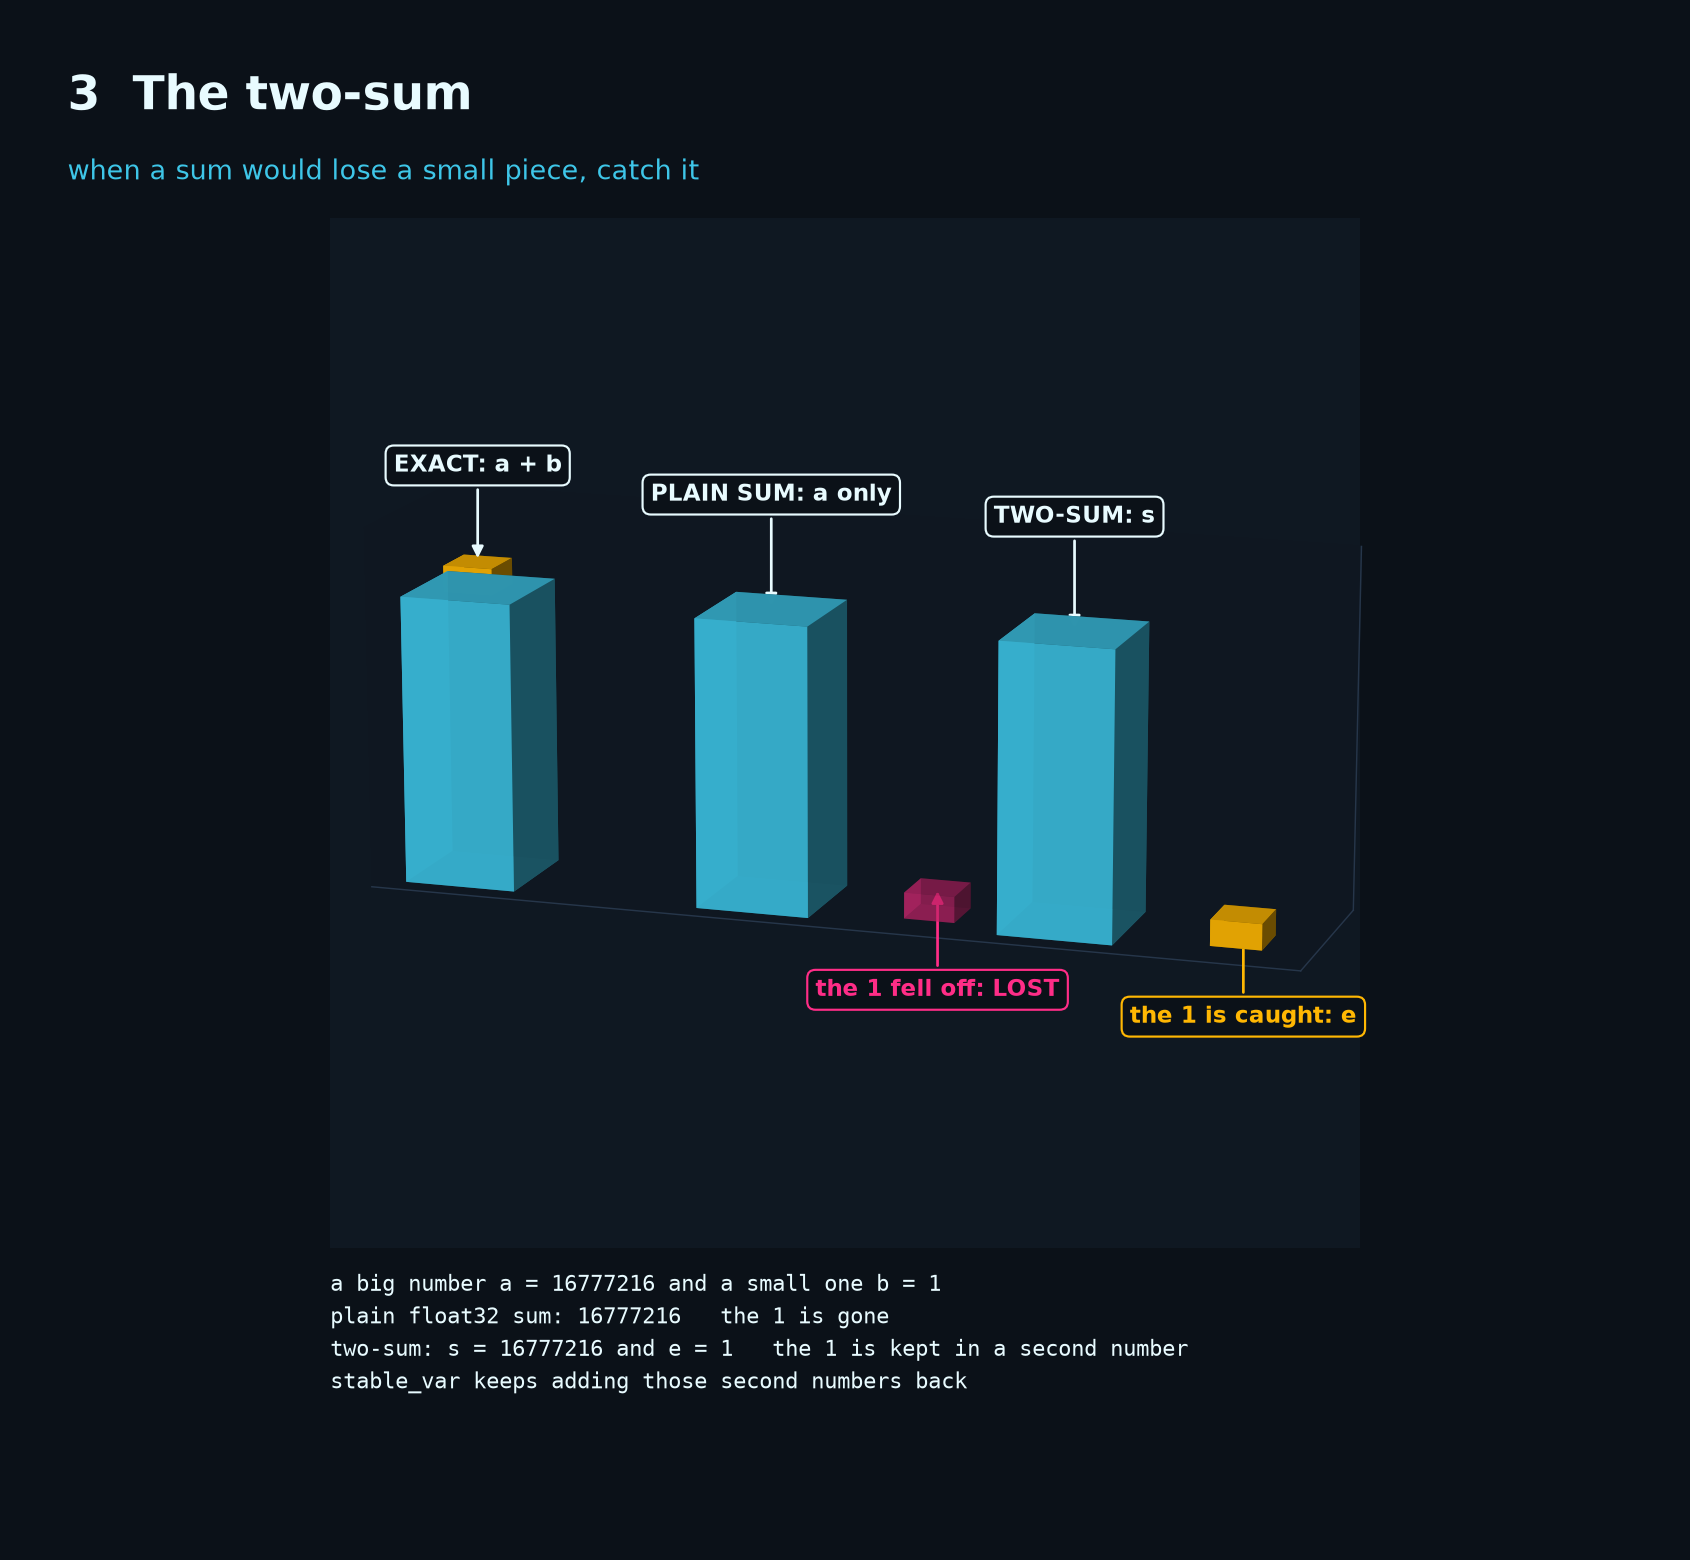
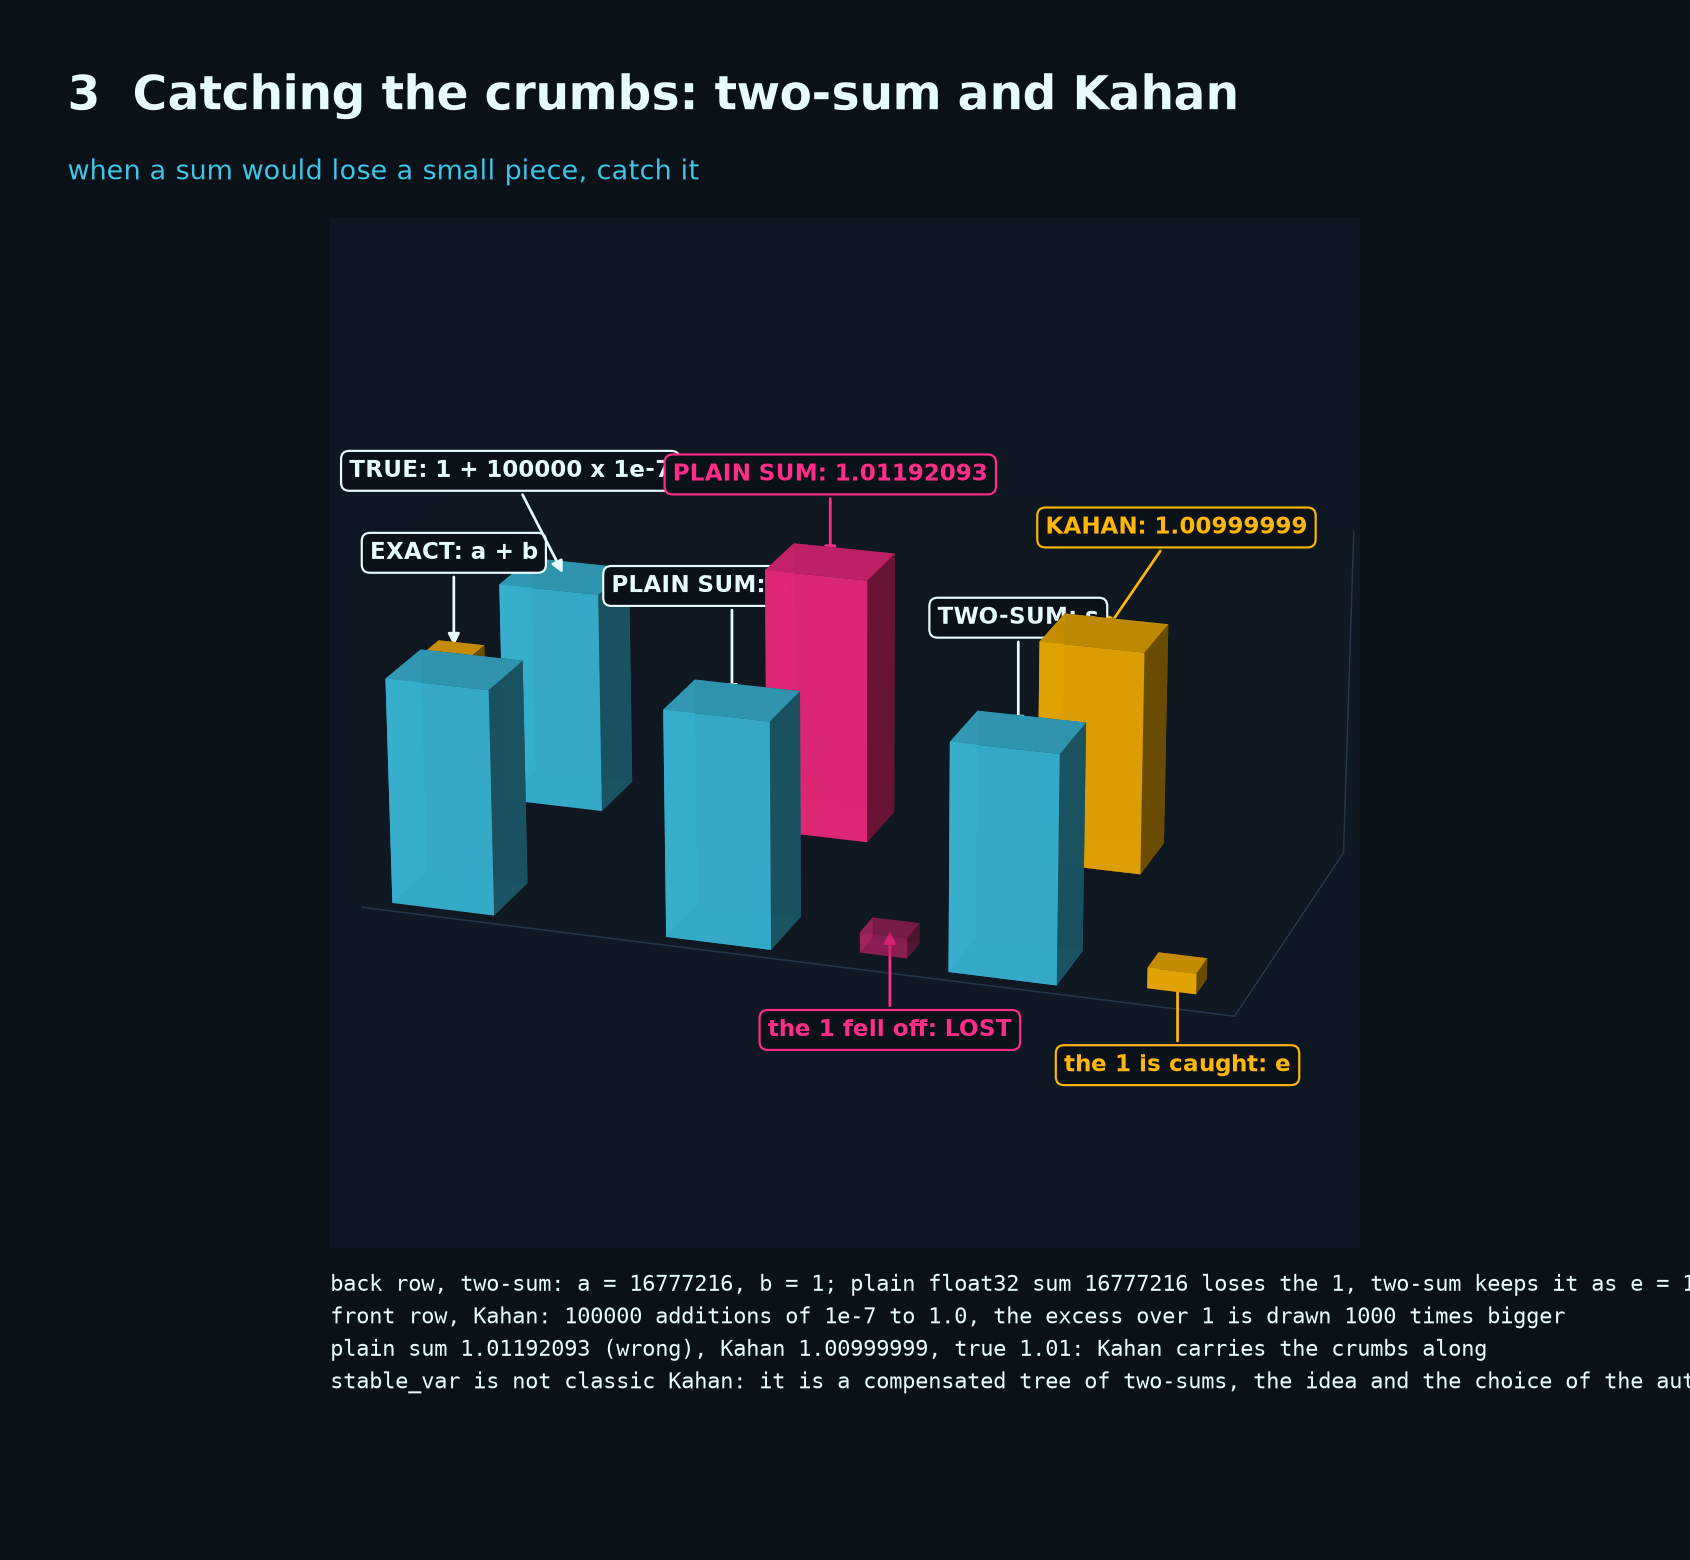
docs(stable_var): the four images with their explanations, Kahan and the compensated tree in the third; the sentence on deep networks removed

diff --git a/docs/assets/stable_variance/make_explained.py b/docs/assets/stable_variance/make_explained.py
@@ -184,27 +184,37 @@ def panel_twosum(ax):
     ax.bar3d(4.0, 0.2, 0.0, 0.4, 0.4, 0.9, color=PINK, alpha=0.45)
     ax.bar3d(4.8, 0.0, 0.0, 0.9, 0.9, 10.0, color=CYAN, alpha=0.95)
     ax.bar3d(6.4, 0.2, 0.0, 0.4, 0.4, 0.9, color=GOLD, alpha=1.0)
+    ax.bar3d(0.0, 3.0, 0.0, 0.9, 0.9, 10.0, color=CYAN, alpha=0.95)
+    ax.bar3d(2.4, 3.0, 0.0, 0.9, 0.9, 11.92, color=PINK, alpha=0.95)
+    ax.bar3d(4.8, 3.0, 0.0, 0.9, 0.9, 10.0, color=GOLD, alpha=0.95)
     ax.set_xlim(-0.2, 7.2)
-    ax.set_ylim(-0.2, 1.4)
-    ax.set_zlim(0, 12.5)
+    ax.set_ylim(-0.2, 4.2)
+    ax.set_zlim(0, 14.5)
     ax.set_xticks([])
     ax.set_yticks([])
     ax.set_zticks([])
-    ax.view_init(elev=14, azim=-72)
-    ax.set_box_aspect((2.6, 0.6, 1.0), zoom=1.0)
+    ax.view_init(elev=20, azim=-72)
+    ax.set_box_aspect((2.6, 1.3, 1.0), zoom=1.0)
     label(ax, 0.45, 0.45, 10.9, "EXACT: a + b", INK, dy=50)
     label(ax, 2.85, 0.45, 10.0, "PLAIN SUM: a only", INK, dy=60)
     label(ax, 4.2, 0.4, 0.9, "the 1 fell off: LOST", PINK, dx=0, dy=-60)
     label(ax, 5.25, 0.45, 10.0, "TWO-SUM: s", INK, dy=60)
     label(ax, 6.6, 0.4, 0.9, "the 1 is caught: e", GOLD, dx=0, dy=-60)
+    label(ax, 0.45, 3.45, 10.0, "TRUE: 1 + 100000 x 1e-7", INK, dx=-30, dy=55)
+    label(ax, 2.85, 3.45, 11.92, "PLAIN SUM: 1.01192093", PINK, dx=0, dy=45)
+    label(ax, 5.25, 3.45, 10.0, "KAHAN: 1.00999999", GOLD, dx=40, dy=55)
     note(
         ax,
-        f"a big number a = {int(a)} and a small one b = {int(b)}{NL}"
-        f"plain float32 sum: {int(plain)}   the {int(b)} is gone{NL}"
-        f"two-sum: s = {int(s)} and e = {int(e)}   the {int(e)} is kept in a second number{NL}"
-        f"stable_var keeps adding those second numbers back",
+        f"back row, two-sum: a = {int(a)}, b = {int(b)}; plain float32 sum {int(plain)} loses the {int(b)}, two-sum keeps it as e = {int(e)}{NL}"
+        f"front row, Kahan: 100000 additions of 1e-7 to 1.0, the excess over 1 is drawn 1000 times bigger{NL}"
+        f"plain sum 1.01192093 (wrong), Kahan 1.00999999, true 1.01: Kahan carries the crumbs along{NL}"
+        f"stable_var is not classic Kahan: it is a compensated tree of two-sums, the idea and the choice of the author",
     )
-    pane(ax, "3  The two-sum", "when a sum would lose a small piece, catch it")
+    pane(
+        ax,
+        "3  Catching the crumbs: two-sum and Kahan",
+        "when a sum would lose a small piece, catch it",
+    )
 
 
 def panel_depth(ax):

diff --git a/docs/stats/stable_variance.md b/docs/stats/stable_variance.md
@@ -10,7 +10,6 @@ It is useful wherever there is a big number with small wiggles around it, in any
 - **Robots and drones:** a joint resting around 1,000 that vibrates by 0.01. The usual formula is wrong by about 630 times. `stable_var` gives the right number.
 - **Deep neural networks in `float32`:** a signal with a big base value that goes through many layers, one after the other. With the usual layer the gradient is wrong by up to about 20 out of 100 after 1024 layers; with `stable_var` it stays below 1 in 10,000 in the same test.
 
-So it is not only for deep networks: it works in finance, in robots and in deep networks every time you have "big numbers plus small wiggles" in `float32`.
 
 How do I compute a variance in float32 that is exactly zero on identical
 values?
@@ -25,131 +24,11 @@ values?
 
 ![Three pillars: the exact sum, the plain float32 sum that loses the 1, and the two-sum that keeps it in a second number](../assets/stable_variance/stable_var_3_twosum.png)
 
-**3. The two-sum.** Adding a small number to a big one loses the small one: with a = 16777216 and b = 1, the plain `float32` sum is 16777216 and the 1 is gone. The two-sum returns the sum s = 16777216 and also the error e = 1, so nothing is lost; `stable_var` adds these second numbers back when it sums.
+**3. Catching the crumbs: two-sum and Kahan.** Adding a small number to a big one loses the small one: with a = 16777216 and b = 1, the plain `float32` sum is 16777216 and the 1 is gone. The two-sum returns the sum s = 16777216 and also the error e = 1, so nothing is lost. Adding 100000 numbers of 1e-7 to 1.0 in `float32` gives 1.01192093 with the plain sum and 1.00999999 with Kahan's sum (the true value is 1.01). `stable_var` is not classic Kahan: it is a compensated tree of two-sums, the idea and the choice of the author, which keeps every crumb and runs on a GPU.
 
 ![A three-dimensional surface of the gradient error of stacked layers on a GPU: the usual layer rises like a mountain to 21 percent, the layer with stable_var is a flat floor below 0.006 percent](../assets/stable_variance/stable_var_4_depth.png)
 
 **4. The depth.** The gradient of a stack of normalised layers on a GPU, in `float32`, for 11 depths from 1 to 1024 layers and 6 values of the offset over the spread, 66 stacks in all. The usual layer is wrong by up to 21 % at 1024 layers; with `stable_var` the gradient is wrong by less than 0.006 % in every stack. The largest gain is at 8 layers, where it is 17,447 times closer to the truth. A step with `stable_var` takes between 0.76 and 3.1 times as long as one with the usual layer (median 1.4).
-
-## A deep learning example: the gradient of a normalisation layer
-
-A normalisation layer divides each row of activations by the square root of its variance. When the activations of a row sit around a large offset with a small spread, the variance and the subtraction of the mean in `float32` lose the digits of the spread, and the gradient that goes back to the earlier layers inherits the error. The test takes 64 rows of 1024 values around 1000 with a spread of 0.004 and applies three layers: the usual one, with `jnp.mean` and `jnp.var`; one that takes only the variance from `stable_var`; and one that takes the variance from `stable_var` and subtracts the mean on the data shifted by the first element, `(x - x[0]) - mean(x - x[0])`. The output and the gradient (by `jax.grad`) of each are compared with the same layer in float64:
-
-```python
-import jax
-import jax.numpy as jnp
-import numpy as np
-from dense_armor.core.signals.stats.stable import stable_var
-
-EPS = 1e-6
-
-
-def usual(x):
-    mean = jnp.mean(x, axis=-1, keepdims=True)
-    var = jnp.var(x, axis=-1, keepdims=True)
-    return (x - mean) / jnp.sqrt(var + EPS)
-
-
-def stable_variance_only(x):
-    mean = jnp.mean(x, axis=-1, keepdims=True)
-    var = stable_var(x, axis=-1, keepdims=True)
-    return (x - mean) / jnp.sqrt(var + EPS)
-
-
-def stable(x):
-    y = x - x[..., :1]
-    d = y - jnp.mean(y, axis=-1, keepdims=True)
-    return d / jnp.sqrt(stable_var(x, axis=-1, keepdims=True) + EPS)
-
-
-rng = np.random.default_rng(0)
-x = rng.normal(1000.0, 0.004, (64, 1024)).astype(np.float32)
-g = rng.normal(0.0, 1.0, (64, 1024)).astype(np.float32)
-x64, g64 = x.astype(np.float64), g.astype(np.float64)
-inv = 1.0 / np.sqrt(x64.var(-1, keepdims=True) + EPS)
-xh = (x64 - x64.mean(-1, keepdims=True)) * inv
-dx = inv * (g64 - g64.mean(-1, keepdims=True) - xh * (g64 * xh).mean(-1, keepdims=True))
-for name, layer in (
-    ("usual", usual),
-    ("stable variance only", stable_variance_only),
-    ("stable", stable),
-):
-    out = np.asarray(layer(jnp.asarray(x)), np.float64)
-    grad = np.asarray(jax.grad(lambda a: jnp.sum(g * layer(a)))(jnp.asarray(x)), np.float64)
-    print(f"{name:22s} output {np.abs(out - xh).max():.1e}  gradient {np.abs(grad - dx).max():.1e}")
-print(f"largest true gradient {np.abs(dx).max():.0f}")
-```
-
-```
-usual                  output 1.9e-02  gradient 8.8e-01
-stable variance only   output 1.9e-02  gradient 7.8e-01
-stable                 output 3.5e-07  gradient 5.1e-03
-largest true gradient 1122
-```
-
-The usual layer is wrong in the output by `1.9e-02` and in the gradient by `0.88`, on a largest true gradient of 1122. Taking only the variance from `stable_var` changes nothing (`1.9e-02` and `0.78`): the digits are lost in the subtraction `x - mean`, not in the variance. When the layer also subtracts the mean on the shifted data, the output error falls to `3.5e-07` and the gradient error to `5.1e-03`, that is `4.5e-06` of the largest gradient against `7.8e-04` for the usual layer: about 170 times smaller. `stable_var` can be differentiated by `jax.grad`, and no gradient in this test is `NaN`.
-
-This is one layer, in one setting, in `float32`; it is not a training run, and the page does not measure the accuracy of a trained network.
-
-### How many layers
-
-The same layer was stacked, `L` times: each layer is `x = 1000 + 0.004 * tanh(LN(x) @ W)`, with `W` orthogonal (times 0.7), 128 rows of 512 values, so that every layer receives an offset of 1000 and a spread of about 0.004. The test is `benchmarks/stable_variance_depth.py`, run on a Kaggle GPU with JAX 0.11.1 (the matrix products at the highest precision, one of the two visible devices in use). For each depth the gradient of the output with respect to the input is computed in `float32` by `jax.grad` and, as a reference, in float64 by replaying the backward pass on the same `float32` inputs. The table gives the relative error of the gradient and the time of one forward and backward step (median of 11 runs):
-
-![The relative error of the gradient and the time of one forward and backward step against the number of layers, for the usual layer normalisation and for the one with stable_var: the usual layer is at 0.4 % with one layer, above 1 % from 4 layers and at 20 % with 1024; with stable_var the error goes from 3e-07 to 6e-05; the step takes between 1.2 and 3 times as long.](../assets/stable_variance/depth_gradient.png)
-
-| layers | gradient error, usual layer | gradient error, `stable_var` | step time, usual | step time, `stable_var` | time ratio |
-|---|---|---|---|---|---|
-| 1 | 3.66e-03 | 3.45e-07 | 0.31 ms | 0.37 ms | 1.20 |
-| 2 | 7.87e-03 | 4.88e-07 | 0.57 ms | 0.74 ms | 1.29 |
-| 4 | 1.11e-02 | 6.95e-07 | 0.96 ms | 1.37 ms | 1.43 |
-| 8 | 1.77e-02 | 1.04e-06 | 1.71 ms | 2.46 ms | 1.44 |
-| 16 | 2.54e-02 | 1.62e-06 | 3.15 ms | 4.56 ms | 1.45 |
-| 32 | 3.74e-02 | 2.65e-06 | 4.36 ms | 8.83 ms | 2.03 |
-| 64 | 5.35e-02 | 4.54e-06 | 8.05 ms | 17.42 ms | 2.17 |
-| 128 | 7.58e-02 | 8.33e-06 | 11.71 ms | 34.56 ms | 2.95 |
-| 256 | 1.06e-01 | 1.56e-05 | 23.34 ms | 35.78 ms | 1.53 |
-| 512 | 1.50e-01 | 3.06e-05 | 47.30 ms | 63.16 ms | 1.34 |
-| 1024 | 2.04e-01 | 5.91e-05 | 95.30 ms | 127.99 ms | 1.34 |
-
-With the usual layer the gradient is wrong by 0.37 % in a single layer, by 1.1 % at 4 layers and by 20 % at 1024. With `stable_var` it is wrong by 3.5e-07 in a single layer and by 5.9e-05 at 1024: between 3450 and 16900 times smaller at every depth tested. The largest error of the output of one normalisation, against float64 on the same input, is between 1.9e-02 and 5.3e-02 for the usual layer and 4.2e-07 for the layer with `stable_var`, at every depth. No gradient is `NaN` or infinite in either variant.
-
-If a gradient error of 1 % is the most that can be accepted, the usual layer reaches it at 4 layers (1.1 %; at 2 layers it is 0.79 %); with `stable_var` the error is still 5.9e-05 at 1024 layers, the deepest tested. So the number of layers that can be built is at least 256 times larger, 1024 against 4, and this test did not find the limit with `stable_var`.
-
-The price is time. A step with the layer that uses `stable_var` takes between 1.2 and 3.0 times as long as one with the usual layer on this GPU, and 1.34 times at 1024 layers (128.0 ms against 95.3 ms). The ratio at 128 layers (2.95) is out of line with its neighbours (1.53 at 256), and was not investigated. For activations with a large offset and a small spread, where the usual layer gives gradients that are wrong by 1 % to 20 %, a step that takes at most three times as long and a gradient that is 3450 to 16900 times more accurate is a good price; for activations without a large offset this test says nothing, because it was not run.
-
-This is one synthetic stack, one GPU session and one size (128 rows of 512 values). In this stack the gradient grows with the depth, up to about 1e15 at 1024 layers, and stays finite in `float32`; it is not a trained network, and the page does not measure the accuracy of one.
-
-## Gamestory
-
-Saturday afternoon at the market. The young shopkeeper and his assistant are selling a super-rare series of collectible action figures that all cost around 1,000 euros (one costs 1000.00, one 1000.01, one 1000.02).
-
-At the end of the day they want to know how much those few cents varied from one figure to another. But there is a problem: to do the math super fast, the assistant uses a pocket calculator with a short screen (called float32), which can hold at most 7 digits on display!
-
-If the assistant uses the normal textbook formula (mean(x**2) - mean(x)**2), a disaster happens: squaring 1000 creates giant numbers (1,000,000), the short screen cuts off all the cents to fit the zeros, and at the end it spits out a crazy negative number (-196608)! To save the cents from the short screen, the assistant uses the stable_var trick, made of four clever moves:
-
-- **1. Removing the giant weight at the start (y = x - x[0]):** Before doing any math, the assistant takes the price of the first figure (1000.00) and subtracts it from all the others. Only the cents of difference remain on the sheet (0.00, 0.01, 0.02)! That way the short screen no longer wastes space writing the thousand euros that are the same for everyone.
-- **2. Centering the cents (m):** Now he takes the average of only those tiny cents (m): this way every tiny rounding stays super small and never blows up.
-- **3. Catching the crumbs that fall off (TwoSum and kahan):** When adding up lots of tiny cents one after another, on a short-screen calculator some crumbs risk falling off the edge. The assistant uses a special trick (TwoSum and kahan) that catches every single crumb of remainder and puts it back into the final sum, without losing even a thousandth!
-- **4. Exact zero on identical prices (0.0):** In the end, if all the figures had the exact same price ([1e10, 1e10, 1e10]), the stable_var function answers 0.0 exact, without making up fake wobbles.
-
-In the end, what is stable_var (Stable variance in float32)? It is a super-accurate math function that lets computers calculate how much numbers vary while using very little memory (float32), by first removing the giant base value and saving even the tiniest rounding crumbs!
-
-## Description
-
-Actually, `stable_var` is useful wherever there is a large number with small variations around it, regardless of the field:
-
-- **In finance:** a stock or an index quoted at 4,500 euros that fluctuates by 25 cents (0.25). With the normal formula in `float32`, the variance comes out `0.0000` (as if the market were completely still!), while `stable_var` finds the exact value (`0.2528`).
-- **In robots and drones:** a joint at rest around 1,000 that vibrates by 0.01. The normal formula is wrong by 630 times, while `stable_var` gives the exact number.
-- **In deep networks in `float32`:** when a signal with a large base value goes through many layers, one after another.
-
-So it is not only for deep networks: it holds in finance, in robots and in deep networks every time you have "large numbers + small variations" in `float32`!
-
-How do I compute a variance in float32 that is exactly zero on identical
-values?
-
-![A three-dimensional surface: the number of layers (log2) and the offset over the spread of the activations (log10) on the horizontal axes, the relative error of the gradient (log10) on the vertical axis. The pink surface of the usual layer normalisation rises with the depth and with the offset over the spread, up to about 20 percent; the blue surface of the layer with stable_var stays between 3e-07 and 6e-05.](../assets/stable_variance/gradient_3d.png)
-
-The picture is the depth test on a GPU in float32, for 11 depths from 1 to 1024 layers and 6 values of the offset over the spread, from 800 to 250000 (66 cells). The pink surface is the gradient error of the usual layer, the blue one is the error of the layer with `stable_var`. The usual layer degrades with the depth and with the offset over the spread, and is at about 20 % at 1024 layers and 250000; the layer with `stable_var` is better in all 66 cells, by a factor between 35 and 17000 (median 960), and goes from 3e-07 to 6e-05. A step with `stable_var` takes between 0.76 and 3.1 times as long as one with the usual layer (median 1.4).
 
 ## A deep learning example: the gradient of a normalisation layer
 
